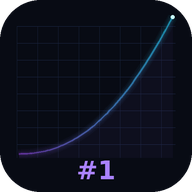
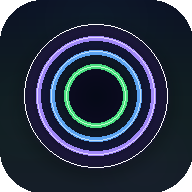
Add files via upload

diff --git a/index.html b/index.html
@@ -8,7 +8,7 @@
 <meta name="theme-color" content="#0a0e17">
 <link rel="manifest" href="manifest.json">
 <meta name="apple-mobile-web-app-status-bar-style" content="black-translucent">
-<title>Rule #1 Tracker</title>
+<title>Target Tracker</title>
 <link rel="icon" href="icon-192.png" type="image/png">
 <link rel="apple-touch-icon" href="icon-192.png">
 <link href="https://fonts.googleapis.com/css2?family=DM+Sans:wght@400;500;600;700&family=DM+Mono:wght@400;500&display=swap" rel="stylesheet">
@@ -19,7 +19,7 @@
 body{font-family:var(--font);background:var(--bg);color:var(--text);max-width:960px;margin:0 auto;min-height:100vh;overflow-x:hidden}
 input[type=number]{-moz-appearance:textfield}input::-webkit-outer-spin-button,input::-webkit-inner-spin-button{-webkit-appearance:none;margin:0}
 .header{padding:14px 16px 10px;border-bottom:1px solid var(--border);position:sticky;top:0;background:var(--bg);z-index:50}
-.header-top{display:flex;justify-content:space-between;align-items:center}
+.header-top{display:flex;justify-content:space-between;align-items:center;gap:10px}
 .header h1{font-size:17px;font-weight:700;letter-spacing:-0.3px}
 .header-sub{font-size:11px;color:var(--muted);margin-top:2px}
 .signal-badge{font-family:var(--mono);font-size:13px;font-weight:700;padding:4px 10px;border-radius:6px}
@@ -138,7 +138,7 @@ input[type=number]{-moz-appearance:textfield}input::-webkit-outer-spin-button,in
 <div class="header">
   <div class="header-top">
     <!-- FIX #1: Dynamic denominator -->
-    <div><h1>Rule #1 Tracker</h1><div class="header-sub">Grid: <span id="grid-count">0</span>/<span id="grid-total">9</span> signals <span style="opacity:.4;margin-left:6px">v1.21</span></div></div>
+    <span id="header-ringmark"></span><div style="flex:1"><h1 id="app-title">Target Tracker</h1><div class="header-sub">Grid: <span id="grid-count">0</span>/<span id="grid-total">9</span> signals <span style="opacity:.4;margin-left:6px">v1.22</span></div></div>
     <div id="grid-badge" class="signal-badge">0/9</div>
   </div>
   <div class="refresh-row">
@@ -250,6 +250,28 @@ function timeAgo(ts){if(!ts)return"—";const d=Date.now()-ts,m=Math.floor(d/600
 function fmt(v,ccy){if(v==null)return"—";const n=Number(v);if(isNaN(n))return"—";if(ccy==="EUR")return"€"+n.toLocaleString("en",{minimumFractionDigits:2,maximumFractionDigits:2});if(ccy==="GBp")return n.toLocaleString("en",{maximumFractionDigits:0})+"p";return"$"+n.toLocaleString("en",{minimumFractionDigits:2,maximumFractionDigits:2});}
 function fmtSh(n){if(n==null)return"0";return Number.isInteger(n)?String(n):n.toFixed(2);}
 function sigCount(t){const s=stocks[t];if(!s?.signals||s.gate===false)return 0;return(s.signals.mos?1:0)+(s.signals.tenCap?1:0)+(s.signals.pbt?1:0);}
+
+// RingMark — live signal mark SVG. Three concentric rings: outer=PBT(purple), middle=10Cap(blue), inner=MOS(green)
+function ringMark(size, pbt, tenCap, mos, uid) {
+  const s=size, cx=s/2, cy=s/2, R=s*0.44;
+  const rP=R*0.82, rT=R*0.63, rM=R*0.43;
+  const wD=R*0.042, wO=R*0.078;
+  const bl=Math.max(0.6, R*0.055);
+  const id=uid||Math.random().toString(36).slice(2,6);
+  const dim='rgba(255,255,255,0.09)';
+  const flt=(fid)=>`<filter id="${fid}" x="-80%" y="-80%" width="260%" height="260%"><feGaussianBlur in="SourceGraphic" stdDeviation="${bl}" result="b"/><feMerge><feMergeNode in="b"/><feMergeNode in="SourceGraphic"/></feMerge></filter>`;
+  return `<svg width="${s}" height="${s}" viewBox="0 0 ${s} ${s}" style="flex-shrink:0;vertical-align:middle">
+    <defs>
+      <radialGradient id="rb${id}" cx="38%" cy="32%"><stop offset="0%" stop-color="#141e38"/><stop offset="60%" stop-color="#0b1228"/><stop offset="100%" stop-color="#060a18"/></radialGradient>
+      ${pbt?flt('rp'+id):''}${tenCap?flt('rt'+id):''}${mos?flt('rm'+id):''}
+    </defs>
+    <circle cx="${cx}" cy="${cy}" r="${R}" fill="url(#rb${id})"/>
+    <circle cx="${cx}" cy="${cy}" r="${rP}" fill="none" stroke="${pbt?'#a78bfa':dim}" stroke-width="${pbt?wO:wD}" ${pbt?`filter="url(#rp${id})"`:''} style="transition:stroke .5s,stroke-width .5s"/>
+    <circle cx="${cx}" cy="${cy}" r="${rT}" fill="none" stroke="${tenCap?'#60a5fa':dim}" stroke-width="${tenCap?wO:wD}" ${tenCap?`filter="url(#rt${id})"`:''} style="transition:stroke .5s,stroke-width .5s"/>
+    <circle cx="${cx}" cy="${cy}" r="${rM}" fill="none" stroke="${mos?'#4ade80':dim}" stroke-width="${mos?wO:wD}" ${mos?`filter="url(#rm${id})"`:''} style="transition:stroke .5s,stroke-width .5s"/>
+    <circle cx="${cx}" cy="${cy}" r="${R*0.985}" fill="none" stroke="rgba(255,255,255,0.06)" stroke-width="${R*0.02}"/>
+  </svg>`;
+}
 function totalSignals(){return getGrid().reduce((s,t)=>s+sigCount(t),0);}
 function gridSize(){return getGrid().length*3;}
 function updateSignals(t){const s=stocks[t];if(!s?.currentPrice||!s?.cons)return;const p=s.currentPrice;
@@ -1052,11 +1074,17 @@ function dismissBuyModal(){
 // ============ RENDER ============
 function render(){
   const ts=totalSignals(),gs=gridSize();
-  document.getElementById("grid-count").textContent=ts;
-  document.getElementById("grid-total").textContent=gs; // FIX #1
   const b=document.getElementById("grid-badge");b.textContent=ts+"/"+gs;
+  document.getElementById("grid-count").textContent=ts;
+  document.getElementById("grid-total").textContent=gs;
   b.style.background=ts>0?"#0d3320":"#1a1a2e";
   b.style.color=ts>0?"#34d399":"var(--muted)";
+  // Header RingMark — shows which signal types are active across entire grid
+  const GRID_H=getGrid();
+  const hPbt=GRID_H.some(t=>stocks[t]?.signals?.pbt);
+  const hTc=GRID_H.some(t=>stocks[t]?.signals?.tenCap);
+  const hMos=GRID_H.some(t=>stocks[t]?.signals?.mos);
+  document.getElementById("header-ringmark").innerHTML=ringMark(36, hPbt, hTc, hMos, "hdr");
   if(settings.lastFetch){document.getElementById("refresh-status").textContent="✓ "+new Date(settings.lastFetch).toLocaleTimeString("en-GB",{hour:"2-digit",minute:"2-digit"});}
   // Show selected portfolio value
   const totalV=pfValueEUR(currentPf);
@@ -1123,10 +1151,10 @@ function renderPortfolio(c){
   </div>`;
 
   // Signal summary grid (compact lifecycle view)
-  h+=`<div class="signal-grid" style="margin-bottom:16px"><div class="sig-header"><div>Stock</div><div>MOS</div><div>10Cap</div><div>PBT</div><div>#</div></div>`;
+  h+=`<div class="signal-grid" style="margin-bottom:16px"><div class="sig-header"><div>Stock</div><div style="color:#a78bfa;font-weight:700">PBT</div><div style="color:#60a5fa;font-weight:700">10Cap</div><div style="color:#4ade80;font-weight:700">MOS</div><div>#</div></div>`;
   GRID.forEach(t=>{const s=stocks[t];const sig=sigCount(t);const gateFail=s.gate===false;
     h+=`<div class="sig-row" ${gateFail?'style="opacity:0.4"':''}><div><div style="font-size:13px;font-weight:600">${gateFail?"🚫 ":""}${s.flag} ${t}</div></div>`;
-    ["mos","tenCap","pbt"].forEach(key=>{
+    ["pbt","tenCap","mos"].forEach(key=>{
       const st=sigCellStatus(t,key);
       h+=`<div class="sig-cell"><div class="sig-ind ${st.cls}">${st.label}</div><div class="sig-sub ${st.subCls||""}">${st.sub}</div></div>`;
     });
@@ -1139,9 +1167,9 @@ function renderPortfolio(c){
   // Totals row
   const buyCount=k=>GRID.filter(t=>sigCellStatus(t,k).cls==="buy").length;
   h+=`<div class="sig-total-row"><div style="font-size:12px;font-weight:700;color:var(--muted)">TOTAL</div>
-    <div style="text-align:center;font-size:12px;font-family:var(--mono);color:var(--muted)">${buyCount("mos")}/${GRID.length}</div>
-    <div style="text-align:center;font-size:12px;font-family:var(--mono);color:var(--muted)">${buyCount("tenCap")}/${GRID.length}</div>
     <div style="text-align:center;font-size:12px;font-family:var(--mono);color:var(--muted)">${buyCount("pbt")}/${GRID.length}</div>
+    <div style="text-align:center;font-size:12px;font-family:var(--mono);color:var(--muted)">${buyCount("tenCap")}/${GRID.length}</div>
+    <div style="text-align:center;font-size:12px;font-family:var(--mono);color:var(--muted)">${buyCount("mos")}/${GRID.length}</div>
     <div style="text-align:center;font-size:14px;font-weight:700;font-family:var(--mono);color:var(--accent)">${ts}/${gs}</div></div></div>`;
 
   // Per-stock unified cards
@@ -1159,7 +1187,7 @@ function renderPortfolio(c){
       s.status==="grid"?`<span class="pos-badge" style="background:#0d3320;color:var(--green)">GRID ${sig}/3</span>`:"";
 
     h+=`<div class="pos-card">
-      <div class="pos-header"><div><div style="display:flex;align-items:center;gap:6px"><span class="pos-ticker">${s.flag} ${ticker}</span>${badge}</div><div class="pos-sub">${s.name} · ${s.moat}</div></div>
+      <div class="pos-header"><div style="display:flex;align-items:center;gap:10px">${ringMark(44, s.signals?.pbt, s.signals?.tenCap, s.signals?.mos, 'c'+ticker)}<div><div style="display:flex;align-items:center;gap:6px"><span class="pos-ticker">${s.flag} ${ticker}</span>${badge}</div><div class="pos-sub">${s.name} · ${s.moat}</div></div></div>
         <div style="text-align:right"><div class="pos-price-val">${fmt(s.currentPrice,s.currency)}</div><div class="pos-pnl" style="color:${pnl>=0?"#60a5fa":"var(--green)"}">${pnl>=0?"+":""}${pnl.toFixed(1)}%</div><div style="font-size:9px;color:var(--muted);font-family:var(--mono)">${s.priceSource==="ibkr"?"⚡":s.priceSource==="yahoo"?"YF ":""}${timeAgo(s.lastUpdate)}</div></div></div>`;
 
     // Stats row
@@ -1239,7 +1267,7 @@ function renderPortfolio(c){
     const sig=sigCount(ticker);
     const badge=`<span class="pos-badge" style="background:#0d3320;color:var(--green)">GRID ${sig}/3</span>`;
     h+=`<div class="pos-card" style="opacity:0.75;border:1px dashed var(--border)">
-      <div class="pos-header"><div><div style="display:flex;align-items:center;gap:6px"><span class="pos-ticker">${s.flag} ${ticker}</span>${badge}</div><div class="pos-sub">${s.name} · ${s.moat}</div></div>
+      <div class="pos-header"><div style="display:flex;align-items:center;gap:10px">${ringMark(44, s.signals?.pbt, s.signals?.tenCap, s.signals?.mos, 'g'+ticker)}<div><div style="display:flex;align-items:center;gap:6px"><span class="pos-ticker">${s.flag} ${ticker}</span>${badge}</div><div class="pos-sub">${s.name} · ${s.moat}</div></div></div>
         <div style="text-align:right"><div class="pos-price-val">${fmt(s.currentPrice,s.currency)}</div><div style="font-size:9px;color:var(--muted);font-family:var(--mono)">${s.priceSource==="ibkr"?"⚡":s.priceSource==="yahoo"?"YF ":""}${timeAgo(s.lastUpdate)}</div></div></div>
       <div style="padding:10px;text-align:center;color:var(--muted);font-size:12px">No shares in ${pf.name}</div>
       <div class="btn-row">

diff --git a/sw.js b/sw.js
@@ -1,4 +1,4 @@
-const CACHE = 'r1-v121';
+const CACHE = 'r1-v122';
 self.addEventListener('install', e => {
   e.waitUntil(caches.open(CACHE).then(c => c.addAll(['./index.html', './manifest.json', './icon-192.png', './icon-512.png'])));
   self.skipWaiting();
